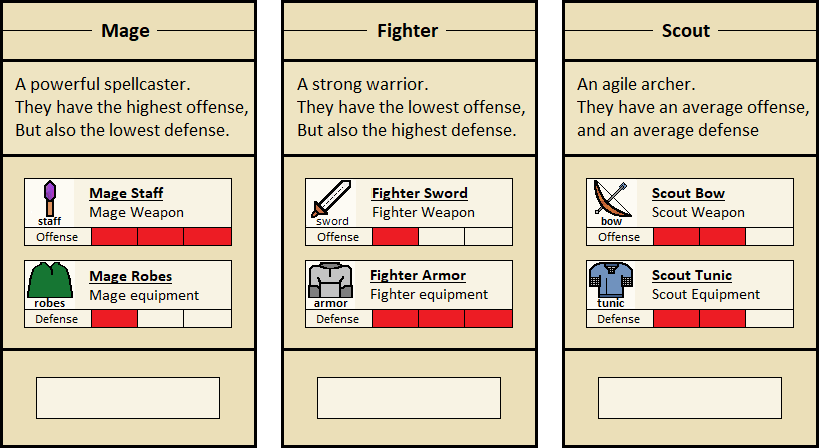
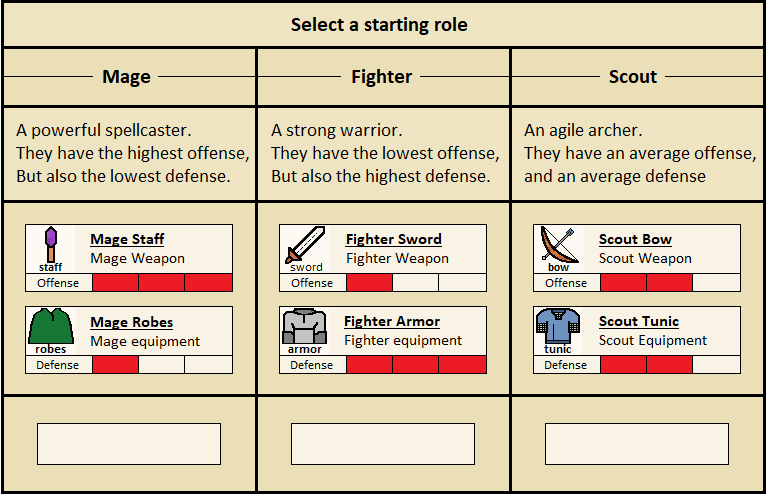
Cleaned up some overlays added.

diff --git a/project_eterna.py b/project_eterna.py
@@ -1757,11 +1757,11 @@ nascent_gate_popup = UiElement("nascent gate popup", 418, 200,
 sell_items = UiElement("sell items", 1154, 270, s_health_pot_img)
 info_items = UiElement("info items", 1154, 270, info_health_pot_img)
 star_power_meter = UiElement("star power", 1210, 360, star_00)
-role_select_overlay = UiElement("role select overlay", 545, 335,
+role_select_overlay = UiElement("role select overlay", 550, 369,
                                 pygame.image.load(resource_urls.role_selection_overlay).convert())
-mage_select_button = UiElement("role select overlay", 264, 509, mage_select_button_img)
-fighter_select_button = UiElement("role select overlay", 545, 509, fighter_select_button_img)
-scout_select_button = UiElement("role select overlay", 826, 509, scout_select_button_img)
+mage_select_button = UiElement("role select overlay", 296, 566, mage_select_button_img)
+fighter_select_button = UiElement("role select overlay", 550, 566, fighter_select_button_img)
+scout_select_button = UiElement("role select overlay", 804, 566, scout_select_button_img)
 
 font = pygame.font.SysFont('freesansbold.ttf', 22, bold=False, italic=False)
 level_up_font = pygame.font.SysFont('freesansbold.ttf', 28, bold=True, italic=False)
